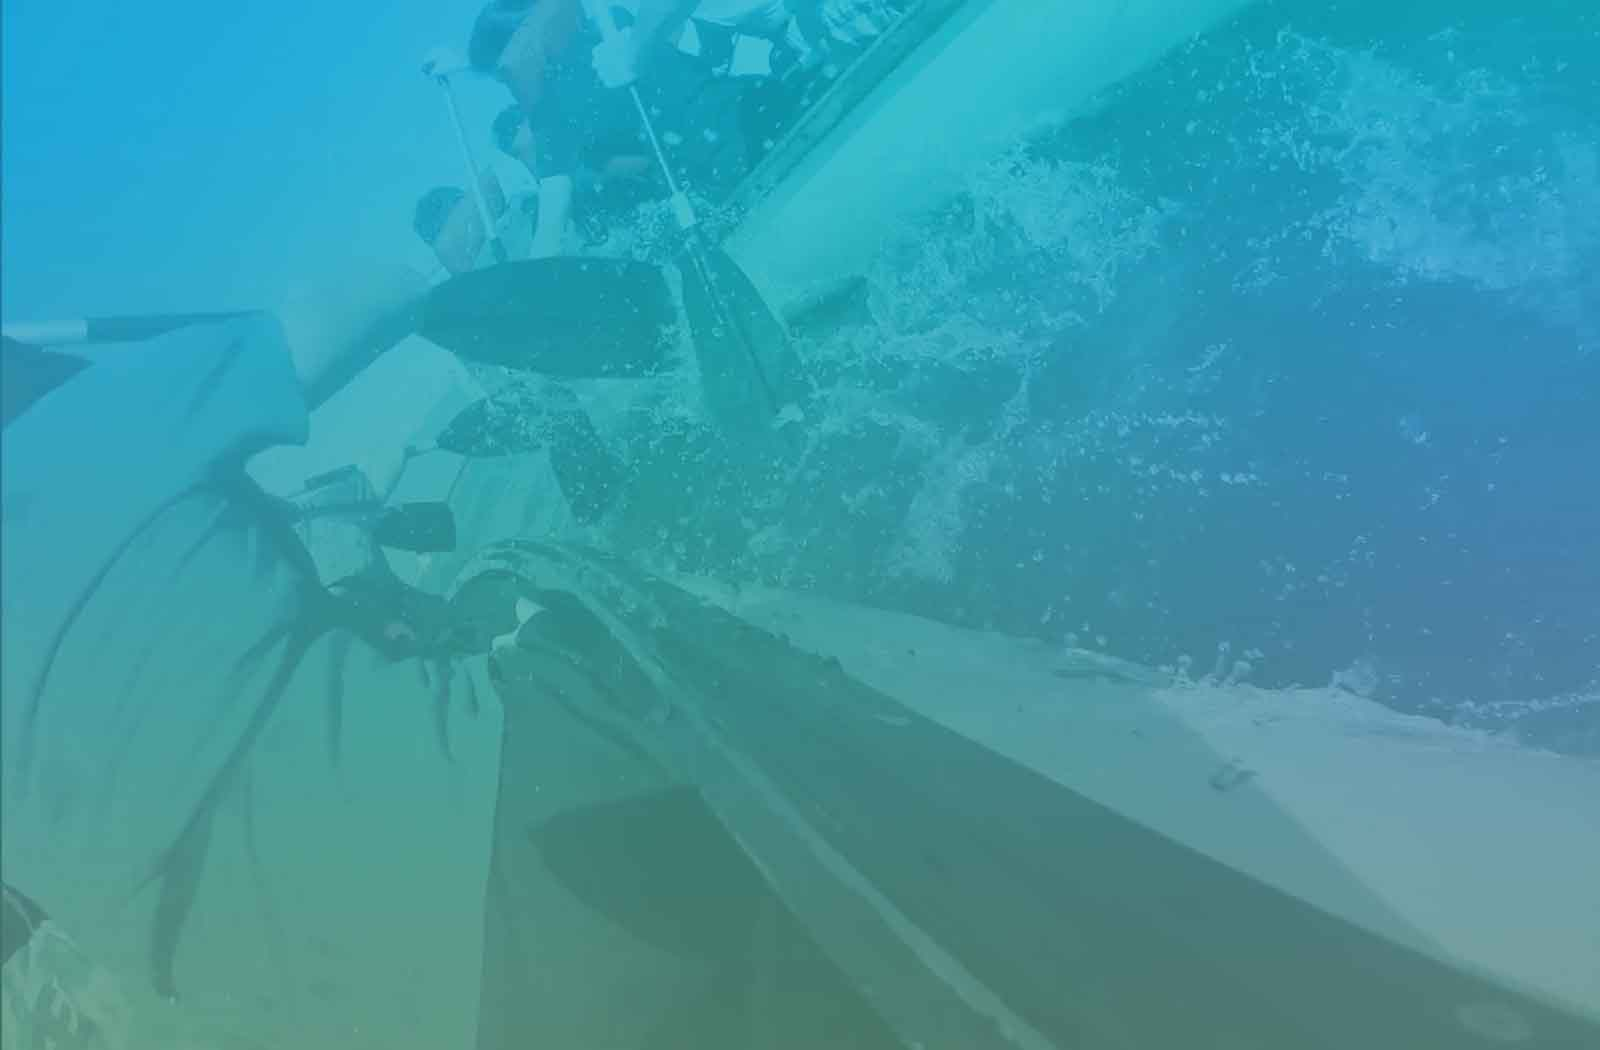
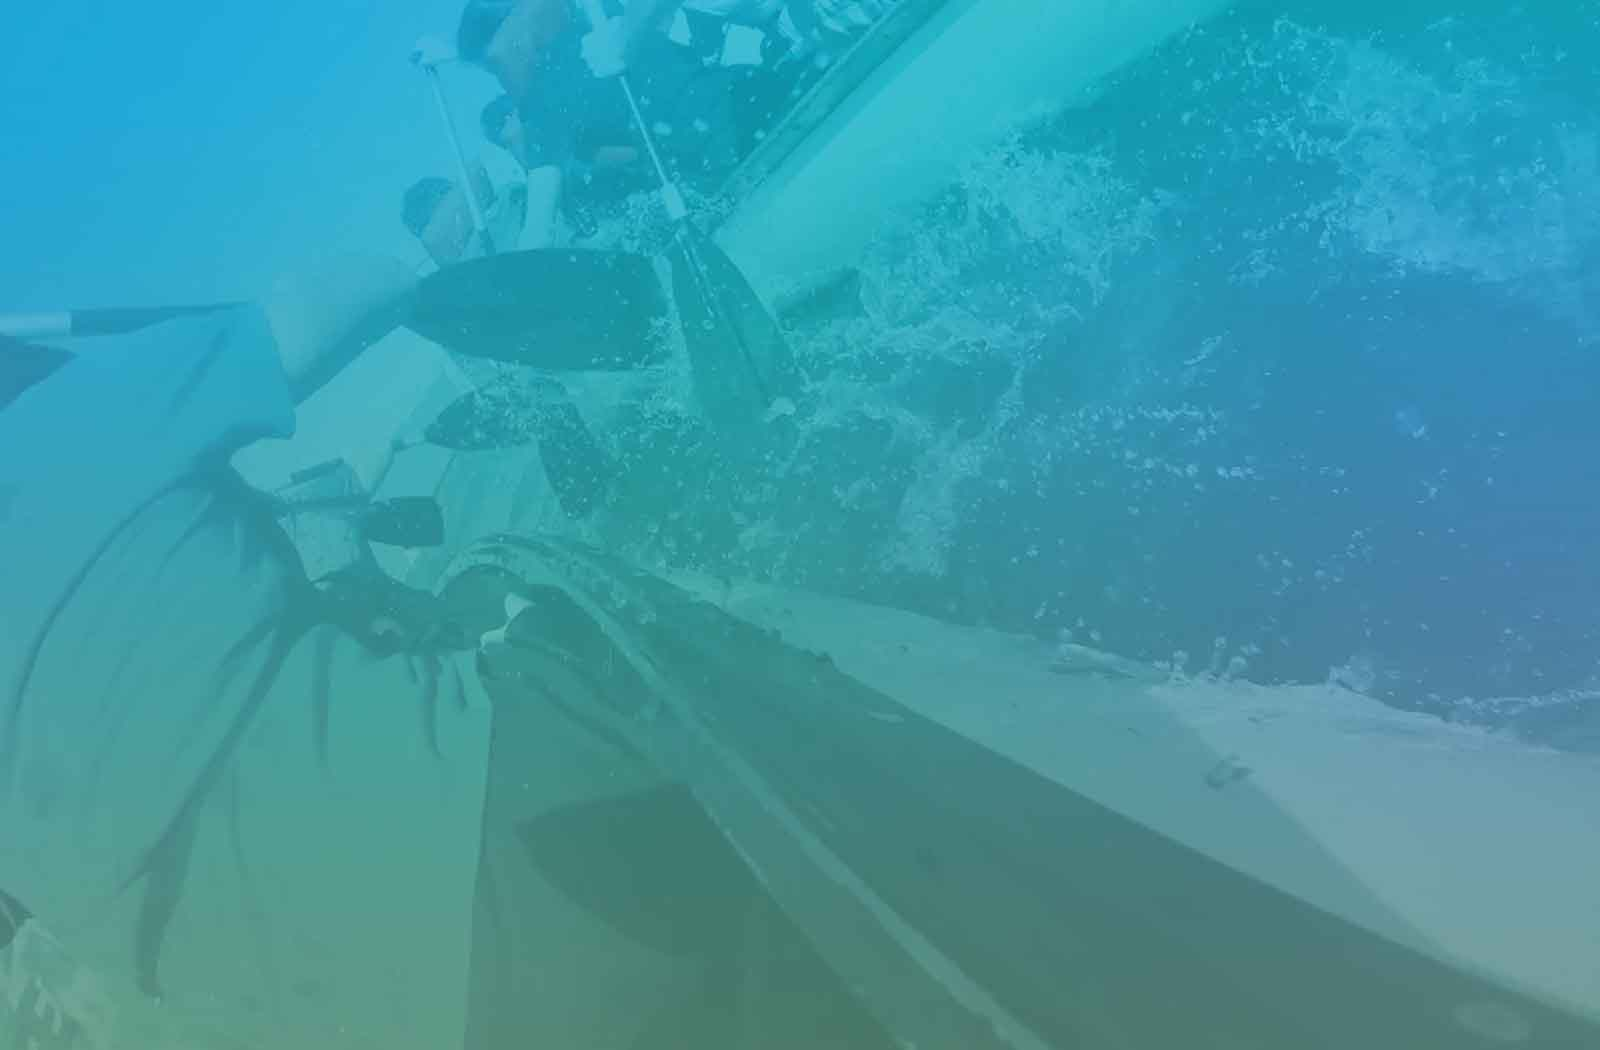
Edit home bg img + extend height for mobile address bar

diff --git a/src/containers/Home.jsx b/src/containers/Home.jsx
@@ -111,7 +111,7 @@ const styles = styler`
     position: fixed
     top: 0
     width: 100vw
-    height: 100vh
+    height: 120vh
     z-index: -10
     background-image: url('${require('../images/longboat.jpg')}')
     background-position: center
